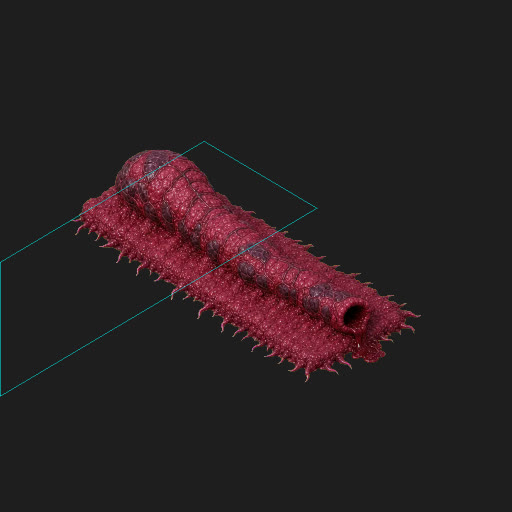
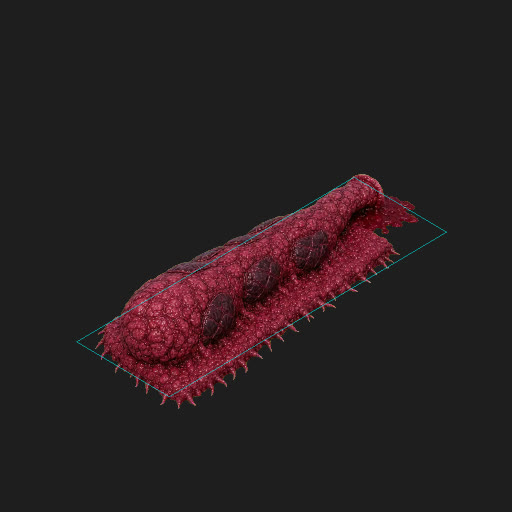
Broodfall limb art: long limbs' backs drawn without their front given (closed back end near, front away), a front mark in a long limb's slab; muzzle sheets for an elbow's side views; the art tests count plated limbs as drawn front and back and as big on three cells or more

Changed region(s): [[0.125, 0.2812, 0.8438, 0.8125], [0.8438, 0.4375, 0.875, 0.4688], [0.0, 0.75, 0.0312, 0.7812]]

diff --git a/games/broodfall/tests/iso.test.ts b/games/broodfall/tests/iso.test.ts
@@ -373,7 +373,9 @@ describe.skipIf(!hasArt)('the baked art', () => {
   });
 
   it('has a view from behind of every limb that is not the same all the way round', () => {
-    const lopsided = ['spitter', 'impaler', 'quill', 'skipper', 'ember', 'maw', 'lobber', 'ocular', 'brood', 'sling', 'conduit', 'tap', 'press', 'amp', 'lance'];
+    // And every limb drawn over its ground plate (Oct 2 2026): drawn front and back, so its picture stands on its cells.
+    const plated = Object.keys(manifest.limbs).filter((f) => manifest.limbs[f].plate);
+    const lopsided = [...new Set(['spitter', 'impaler', 'quill', 'skipper', 'ember', 'maw', 'lobber', 'ocular', 'brood', 'sling', 'conduit', 'tap', 'press', 'amp', 'lance', ...plated])];
     for (const family of lopsided) {
       const l = manifest.limbs[family];
       expect(l.back, `${family} from behind`).toBeTruthy();
@@ -390,11 +392,13 @@ describe.skipIf(!hasArt)('the baked art', () => {
     // Since the class-zero mapping (Oct 2 2026) some limbs stand on new ground before their art is redrawn
     // (the limb art pass, HANDOFF.md "Footprints"): their old pictures are scaled to their ground meanwhile.
     // ART_PENDING lists them; a limb leaves the list when its art is baked for its new ground.
-    const ART_PENDING: Record<string, boolean> = { bombard: false, frond: true, tangler: true, choir: true };
+    const ART_PENDING: Record<string, boolean> = {};
     for (const t of TOWERS) {
       const l = manifest.limbs[t.family];
       // Big: four cells or more in a square. A LONG limb (two cells) is drawn from the frames of a limb of one.
-      const big = t.family in ART_PENDING ? ART_PENDING[t.family] : !!t.span && t.span[0] * t.span[1] >= 4;
+      // A limb drawn over its ground plate on three cells or more (a line of three, a T, an elbow, an L) is big too.
+      const cells = t.shape ? ({ line3: 3, T: 4, L3: 3, L4: 4, S4: 4 } as Record<string, number>)[t.shape] : t.span ? t.span[0] * t.span[1] : 1;
+      const big = t.family in ART_PENDING ? ART_PENDING[t.family] : cells >= 3;
       expect(!!l.big, `${t.family} big`).toBe(big);
       expect(l.frame, `${t.family} frame`).toBe(big ? 384 : 256);
     }
